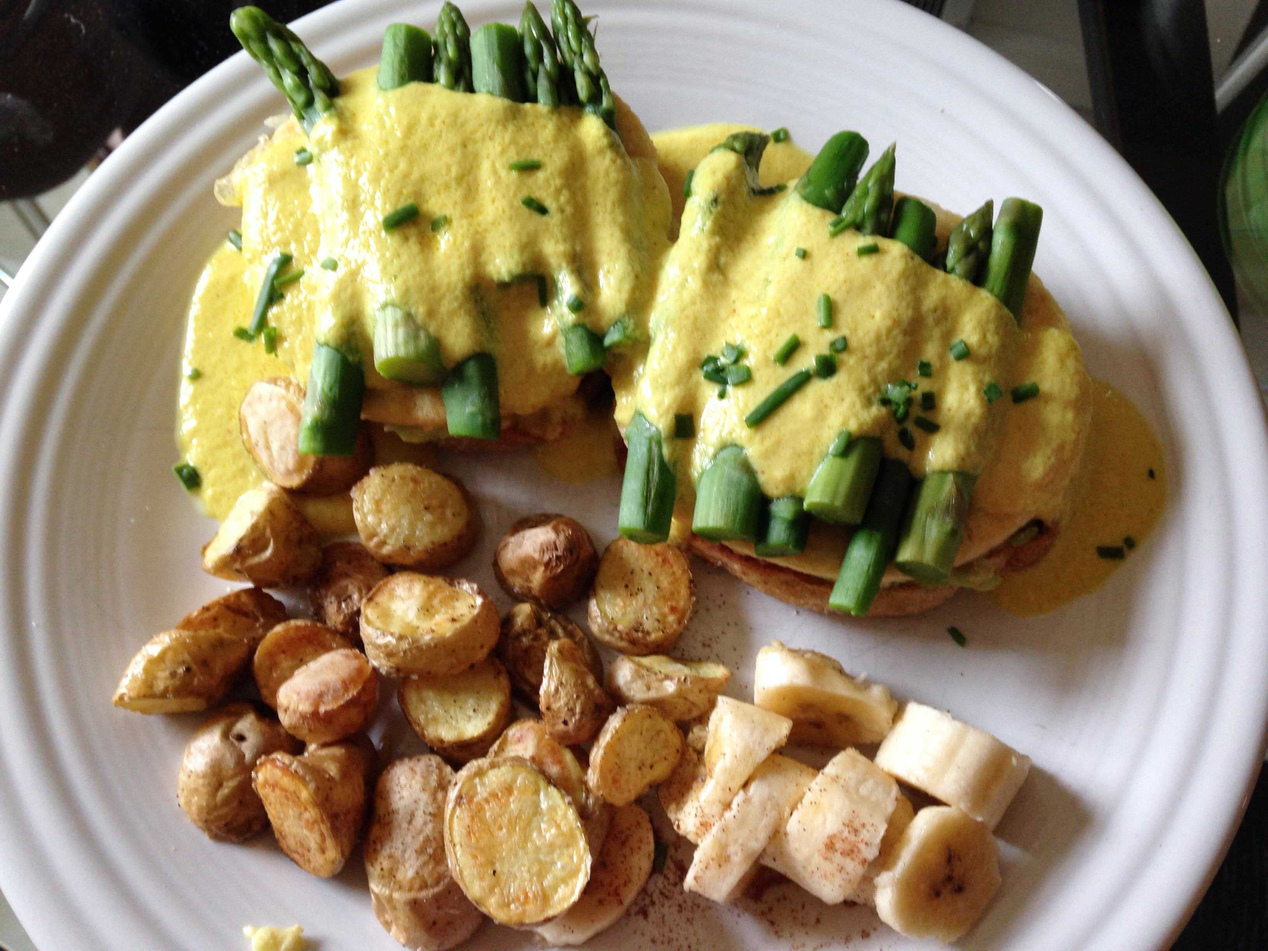
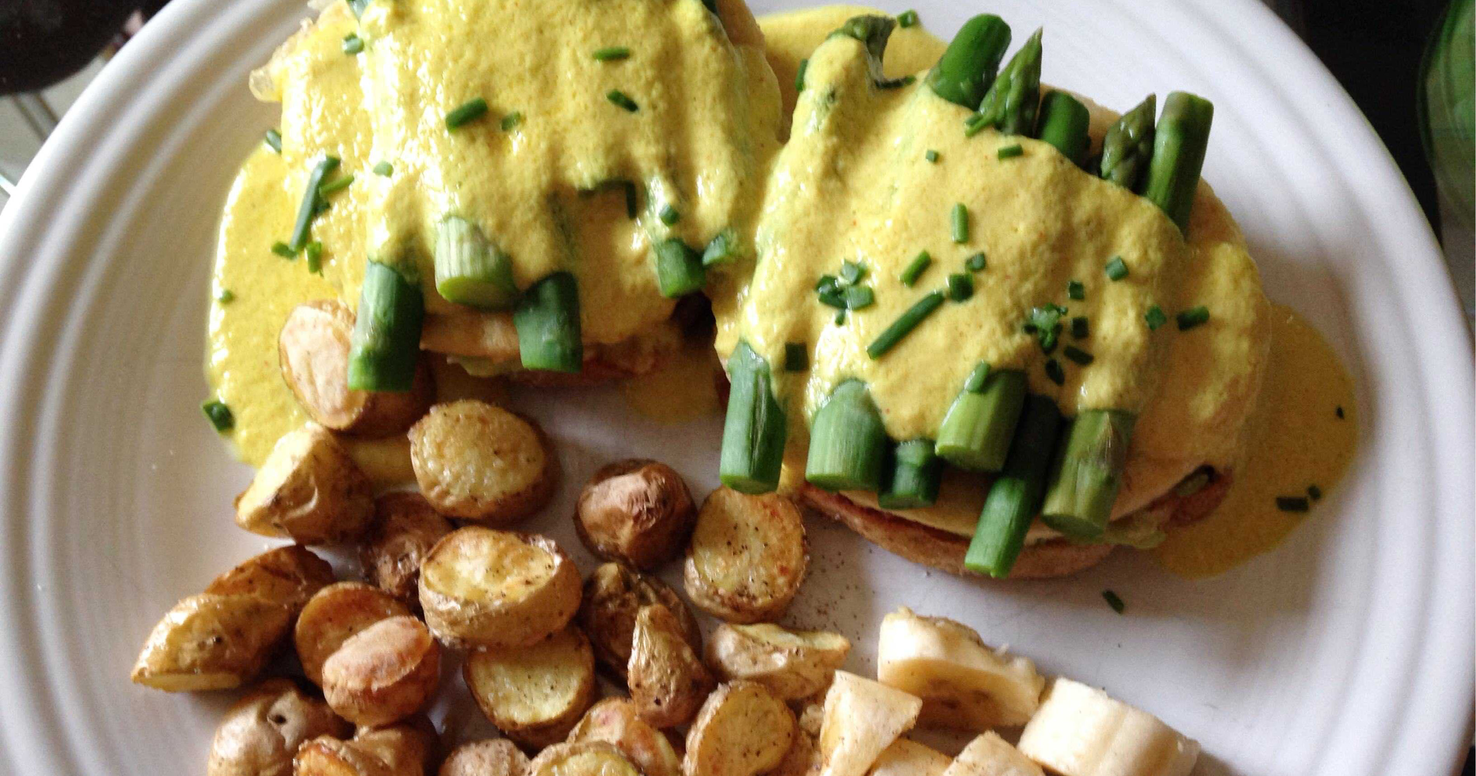
Slider
Slider listo

diff --git a/index-2.html b/index-2.html
@@ -20,17 +20,15 @@
 			<div class="carousel-inner">
 				<div class="item active">
 					
-					<img src="Assets/pan.jpg" class="adaptar">
-					<div >
-						<h2>Comida gourmet directo a tu mesa!</h2>
-					</div>
+					<img src="Assets/pan.jpg" class="adaptar img-responsive" alt="Responsive image">
+					
 				</div>
 				<div class="item">
 
-					<img src="Assets/esparragos.jpg" class="adaptar">
+					<img src="Assets/esparragos.jpg" class="adaptar img-responsive" alt="Responsive image">
 				</div>
 				<div class="item">
-					<img src="Assets/ostiones.jpg" class="adaptar">
+					<img src="Assets/ostiones.jpg" class="adaptar img-responsive" alt="Responsive image">
 				</div>
 				
 				

diff --git a/css/styles.css b/css/styles.css
@@ -1,10 +1,14 @@
-.carousel.slide {
+.carousel .slide {
   margin: 30px 0px;
 }
 
-.carousel.slide .carousel-inner {
+.carousel .slide .carousel-inner {
   position: relative;
   margin-right: auto;
   width: 100%;
   height: 700px;
+}
+
+.carousel .slide .carousel-inner .item img {
+  width: 100%;
 }

diff --git a/css/styles.scss b/css/styles.scss
@@ -1,6 +1,6 @@
 
 // Inicio Slider
-.carousel.slide{
+.carousel .slide{
 	margin: 30px 0px;
 	
 	.carousel-inner{
@@ -8,6 +8,9 @@
 		margin-right: auto;
 		width: 100%;
 		height: 700px;
+		.item img{
+			width: 100%;
+		}
 		
 	}
 }
